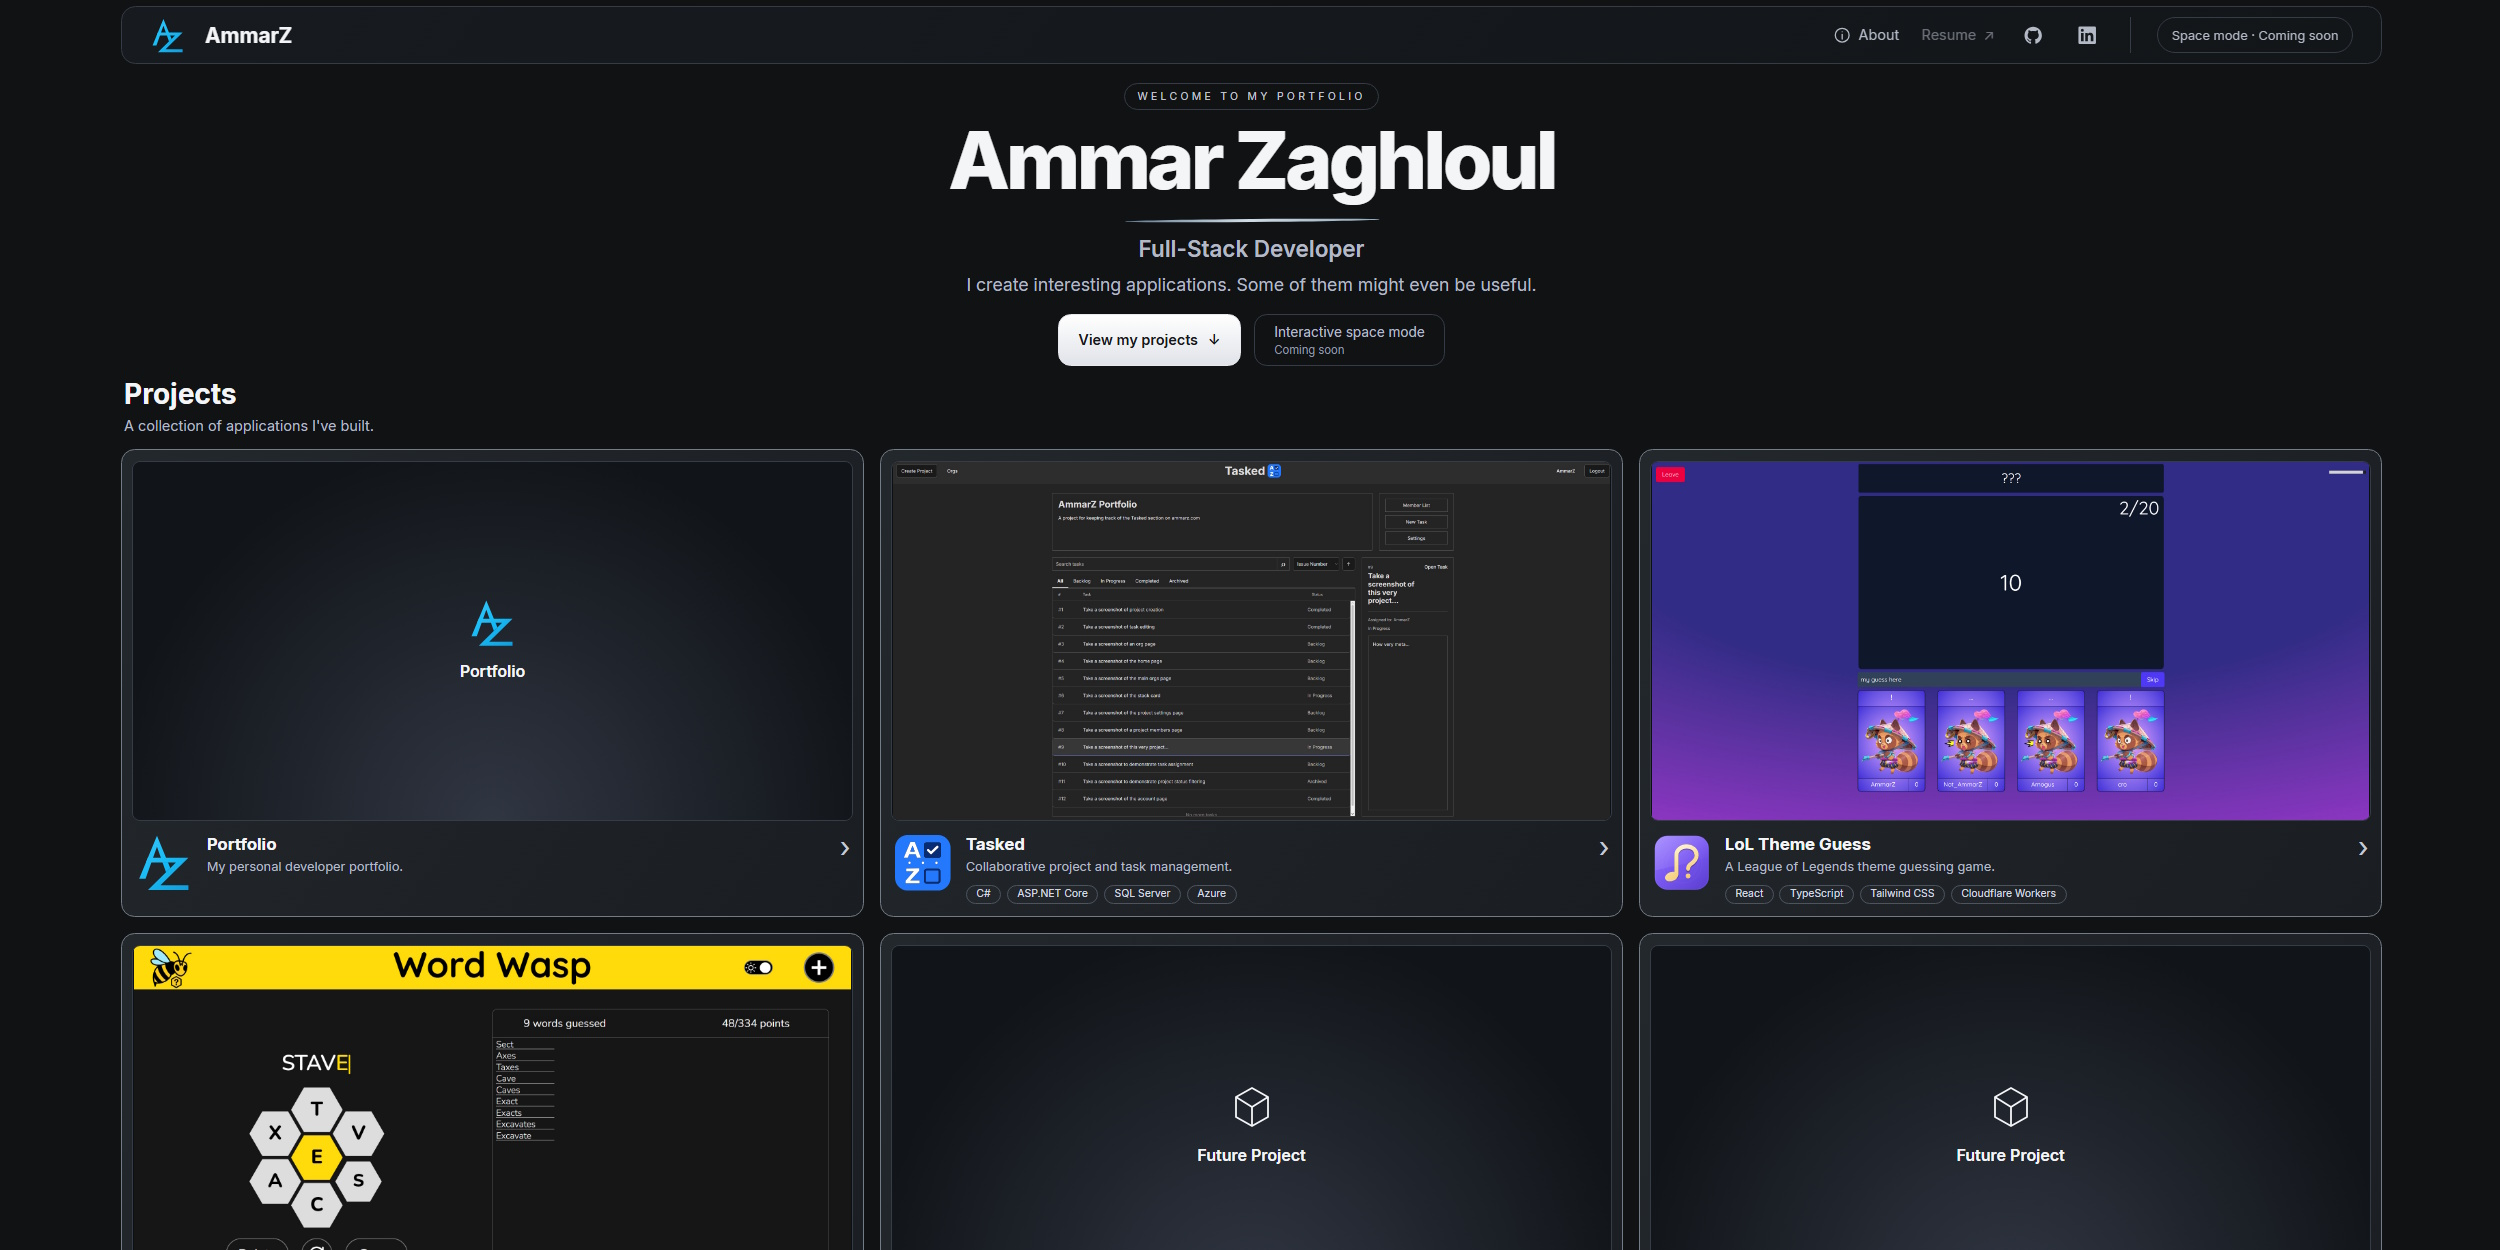
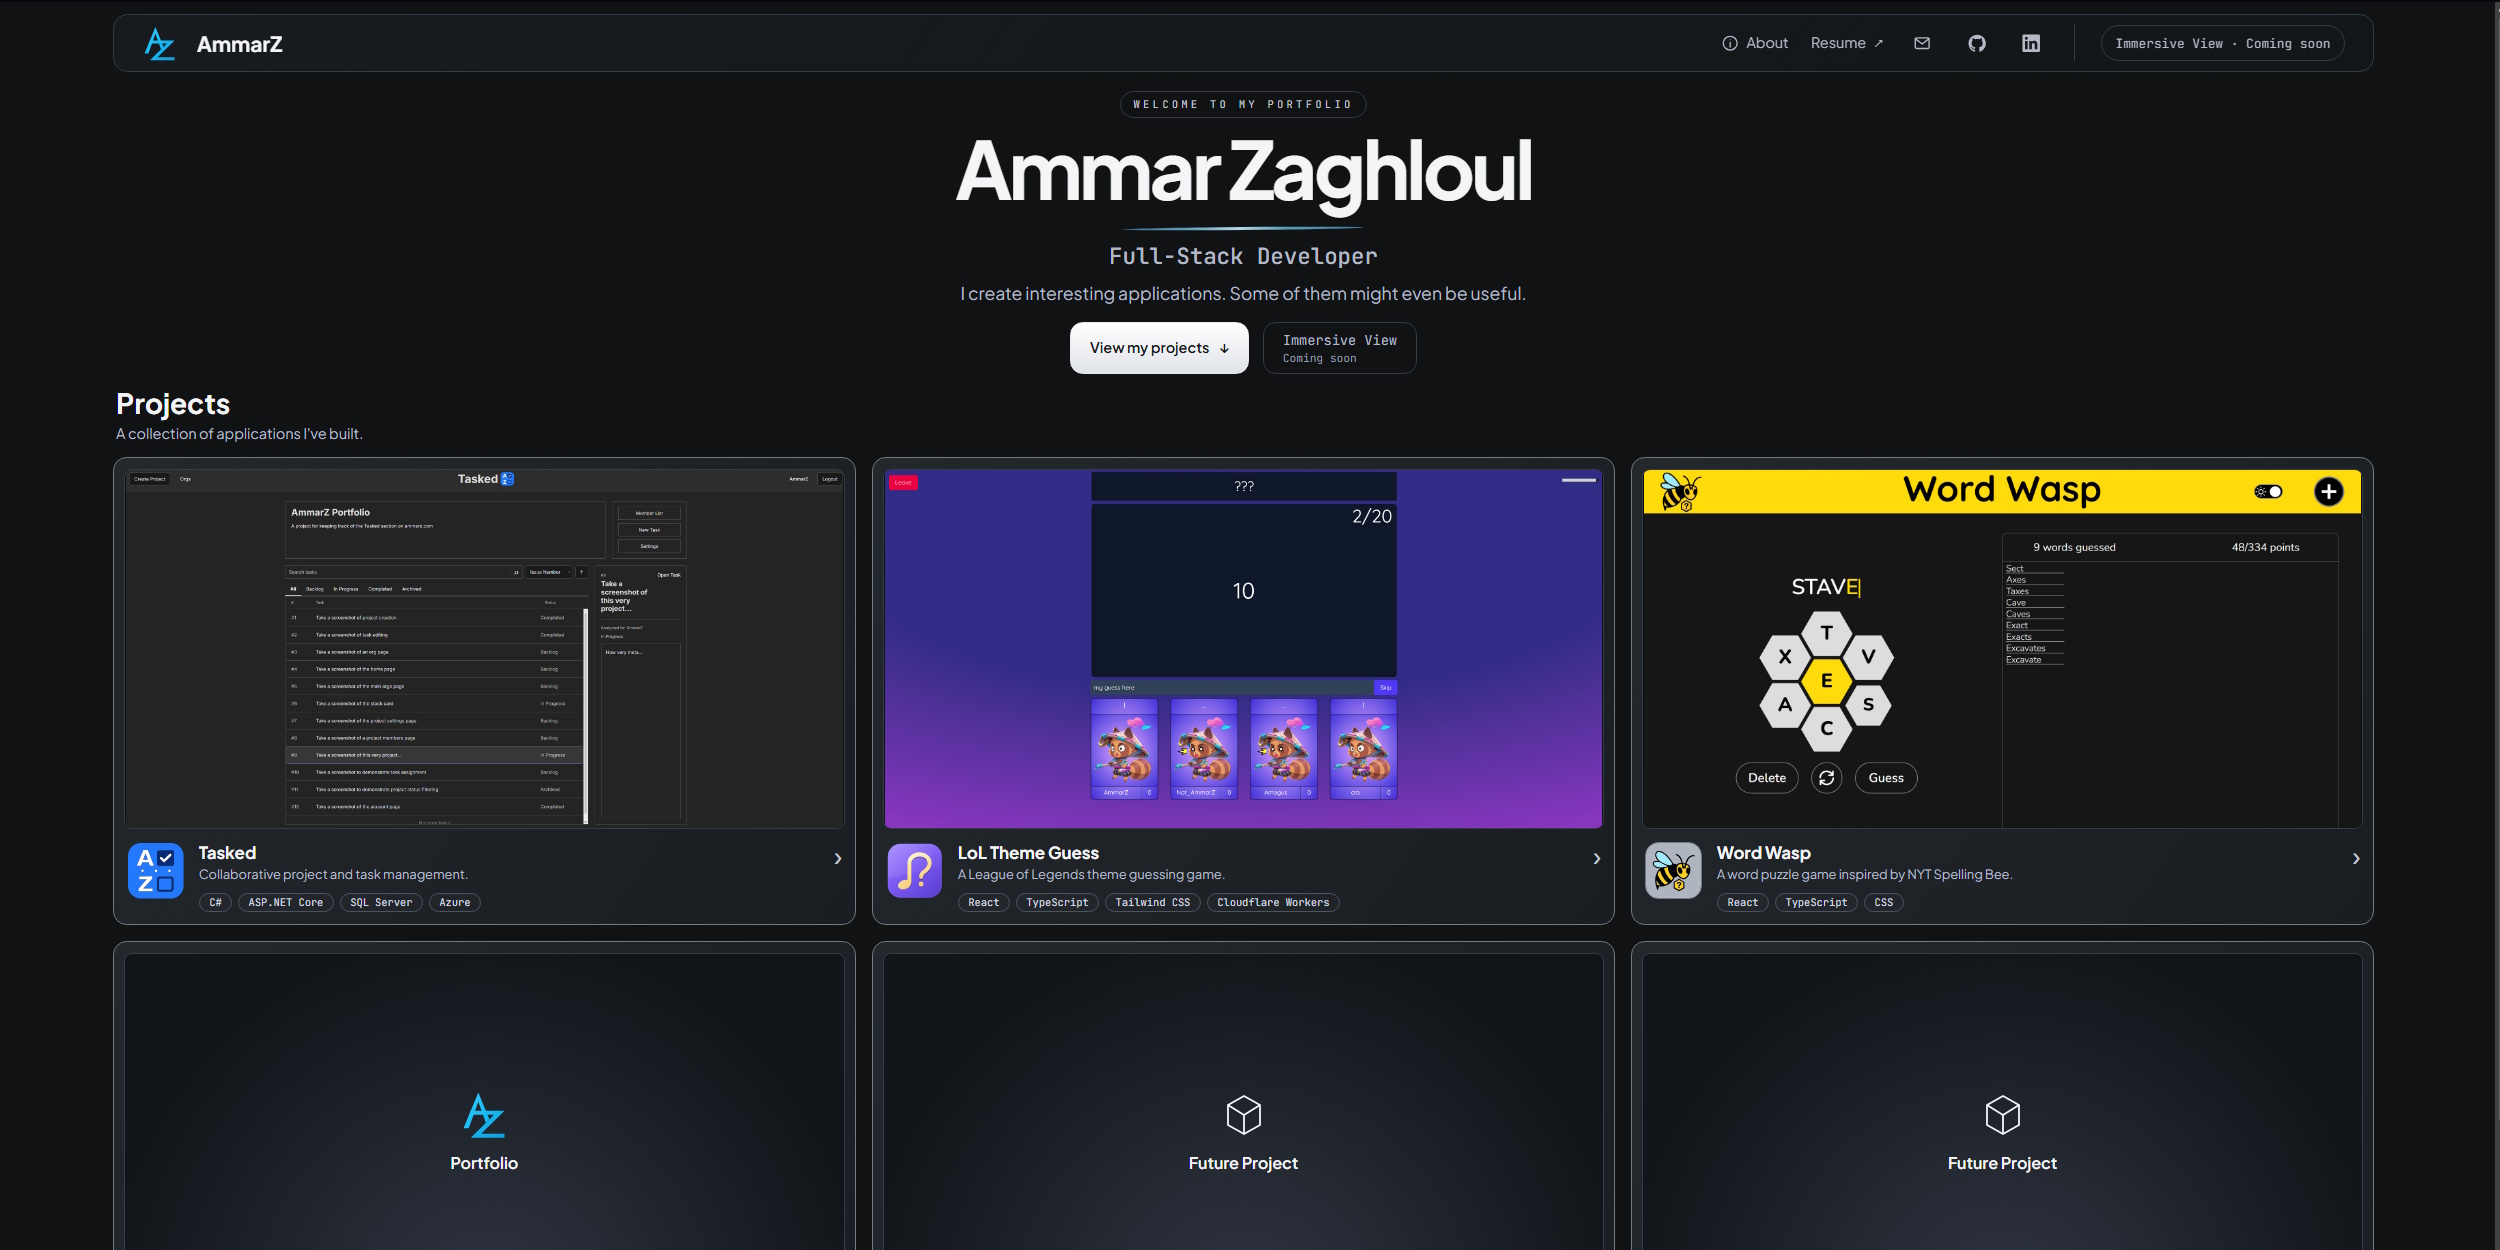
README and preview image updates

diff --git a/README.md b/README.md
@@ -1,89 +1,18 @@
-# WIP Portfolio page
+# About
 
-# React + Vite + Cloudflare Workers
+It's just my personal portfolio, checking it out is a lot more interesting and informative than reading this.
 
-[![Deploy to Cloudflare](https://deploy.workers.cloudflare.com/button)](https://deploy.workers.cloudflare.com/?url=https://github.com/cloudflare/templates/tree/main/vite-react-template)
+Visit the portfolio at [ammarz.com](https://ammarz.com)
 
-This template provides a minimal setup for building a React application with TypeScript and Vite, designed to run on Cloudflare Workers. It features hot module replacement, ESLint integration, and the flexibility of Workers deployments.
+![Portfolio preview](public/projects/portfolio/portfolio.jpg)
 
-![React + TypeScript + Vite + Cloudflare Workers](https://imagedelivery.net/wSMYJvS3Xw-n339CbDyDIA/fc7b4b62-442b-4769-641b-ad4422d74300/public)
+## Features
 
-<!-- dash-content-start -->
+- A gallery with project cards and preview images
+- A detailed project view with a description, more example images, and the stack
+- Links to all my projects and my resume
+- Some hints about future projects...
 
-🚀 Supercharge your web development with this powerful stack:
+## Built with
 
-- [**React**](https://react.dev/) - A modern UI library for building interactive interfaces
-- [**Vite**](https://vite.dev/) - Lightning-fast build tooling and development server
-- [**Cloudflare Workers**](https://developers.cloudflare.com/workers/) - Edge computing platform for global deployment
-
-### ✨ Key Features
-
-- 🔥 Hot Module Replacement (HMR) for rapid development
-- 📦 TypeScript support out of the box
-- 🛠 ESLint configuration included
-- ⚡ Zero-config deployment to Cloudflare's global network
-- 🔄 Full-stack development setup
-- 🔎 Built-in Observability to monitor your Worker
-
-Get started in minutes with local development or deploy directly via the Cloudflare dashboard. Perfect for building modern, performant web applications at the edge.
-
-<!-- dash-content-end -->
-
-## Getting Started
-
-To start a new project with this template, run:
-
-```bash
-npm create cloudflare@latest -- --template=cloudflare/templates/vite-react-template
-```
-
-A live deployment of this template is available at:
-[https://react-vite-template.templates.workers.dev](https://react-vite-template.templates.workers.dev)
-
-## Development
-
-Install dependencies:
-
-```bash
-npm install
-```
-
-Start the development server with:
-
-```bash
-npm run dev
-```
-
-Your application will be available at [http://localhost:5173](http://localhost:5173).
-
-## Production
-
-Build your project for production:
-
-```bash
-npm run build
-```
-
-Preview your build locally:
-
-```bash
-npm run preview
-```
-
-Deploy your project to Cloudflare Workers:
-
-```bash
-npm run build && npm run deploy
-```
-
-Monitor your workers:
-
-```bash
-npx wrangler tail
-```
-
-## Additional Resources
-
-- [Cloudflare Workers Documentation](https://developers.cloudflare.com/workers/)
-- [Vite Documentation](https://vitejs.dev/guide/)
-- [React Documentation](https://reactjs.org/)
+React, TypeScript, Vite, and Vanilla CSS. Hosted on Cloudflare.
